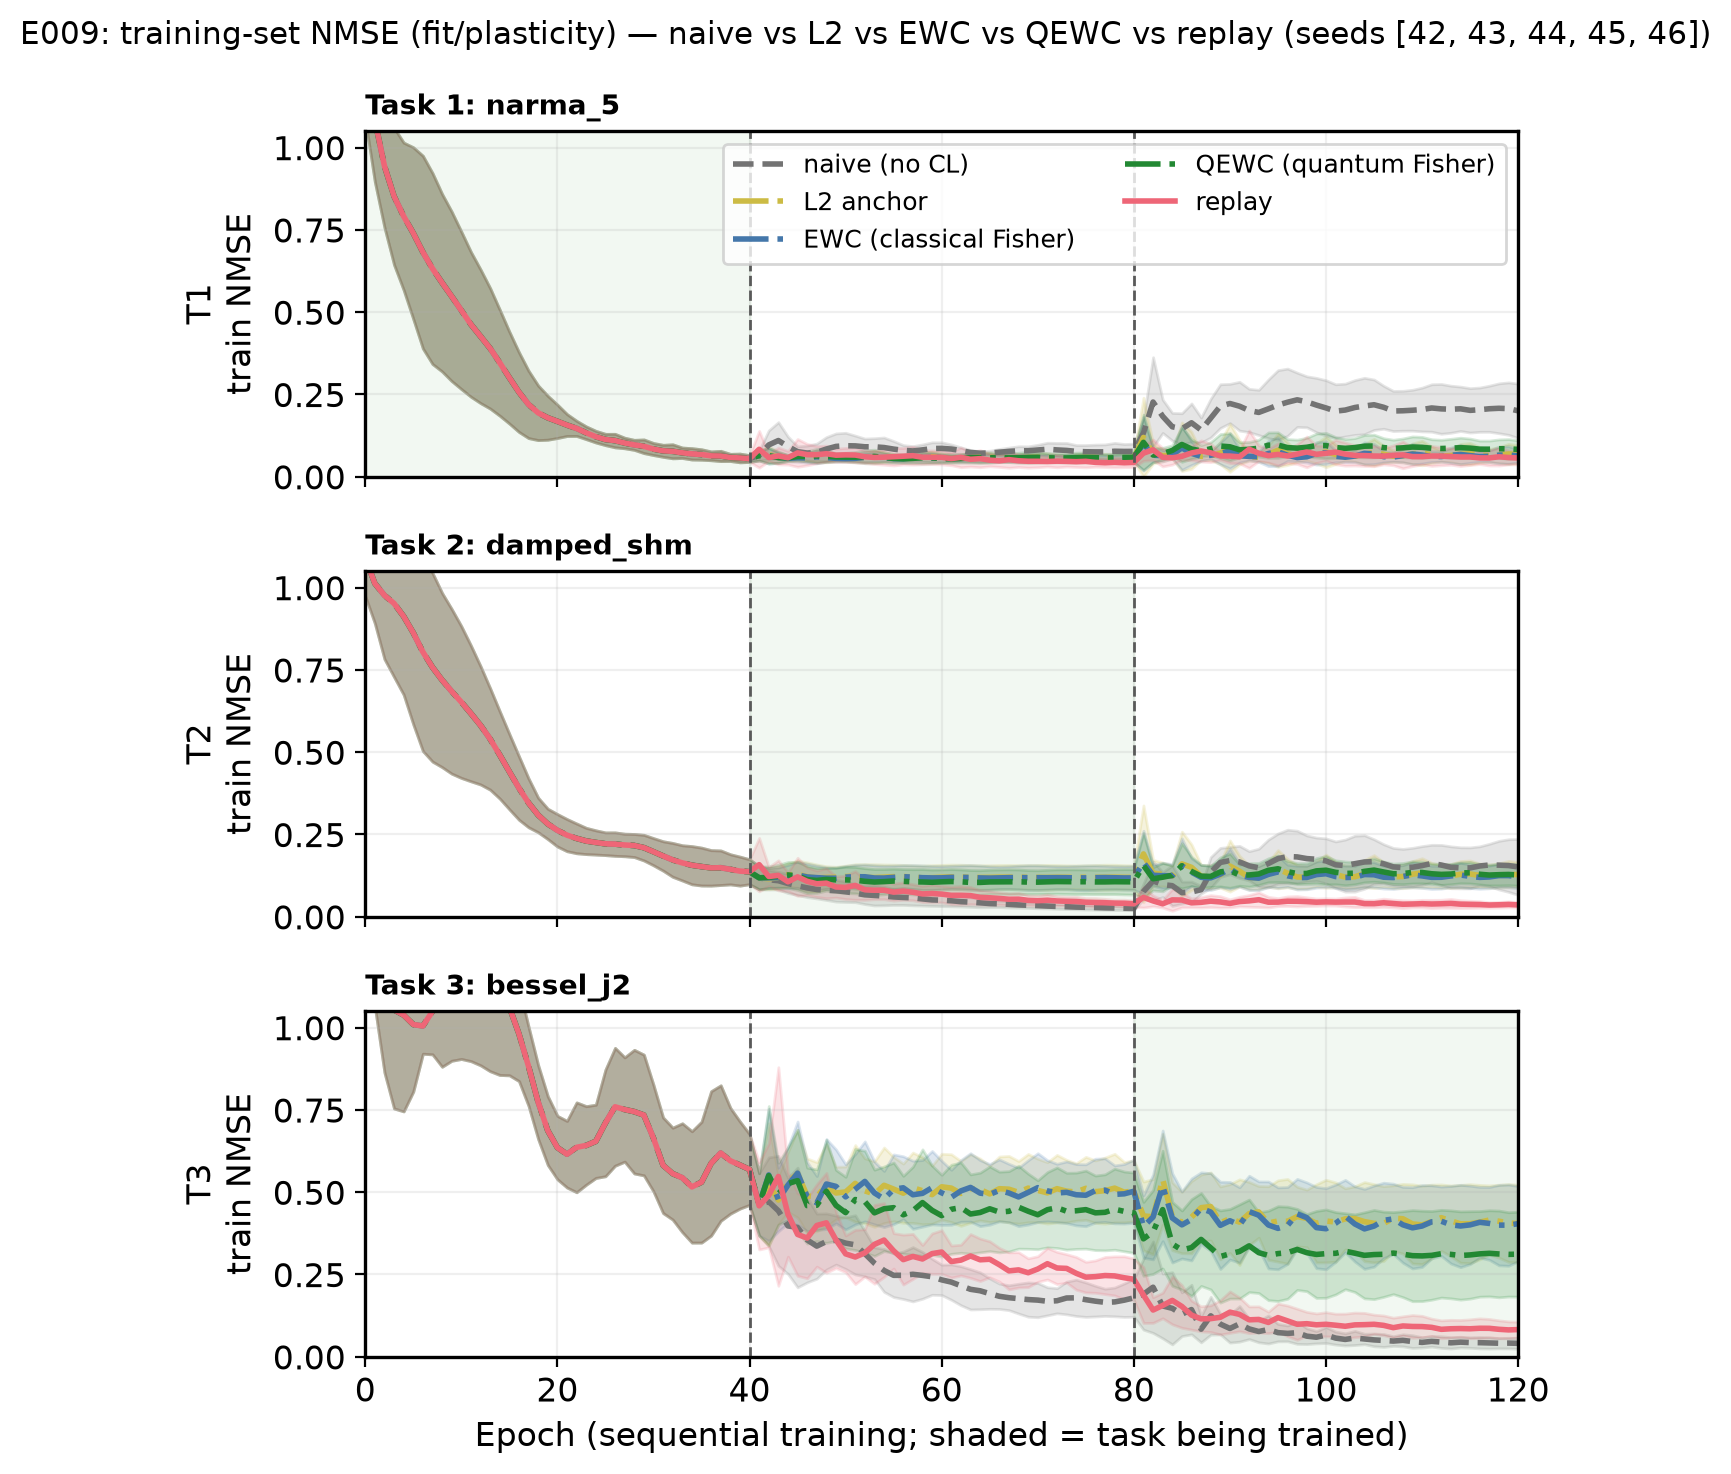
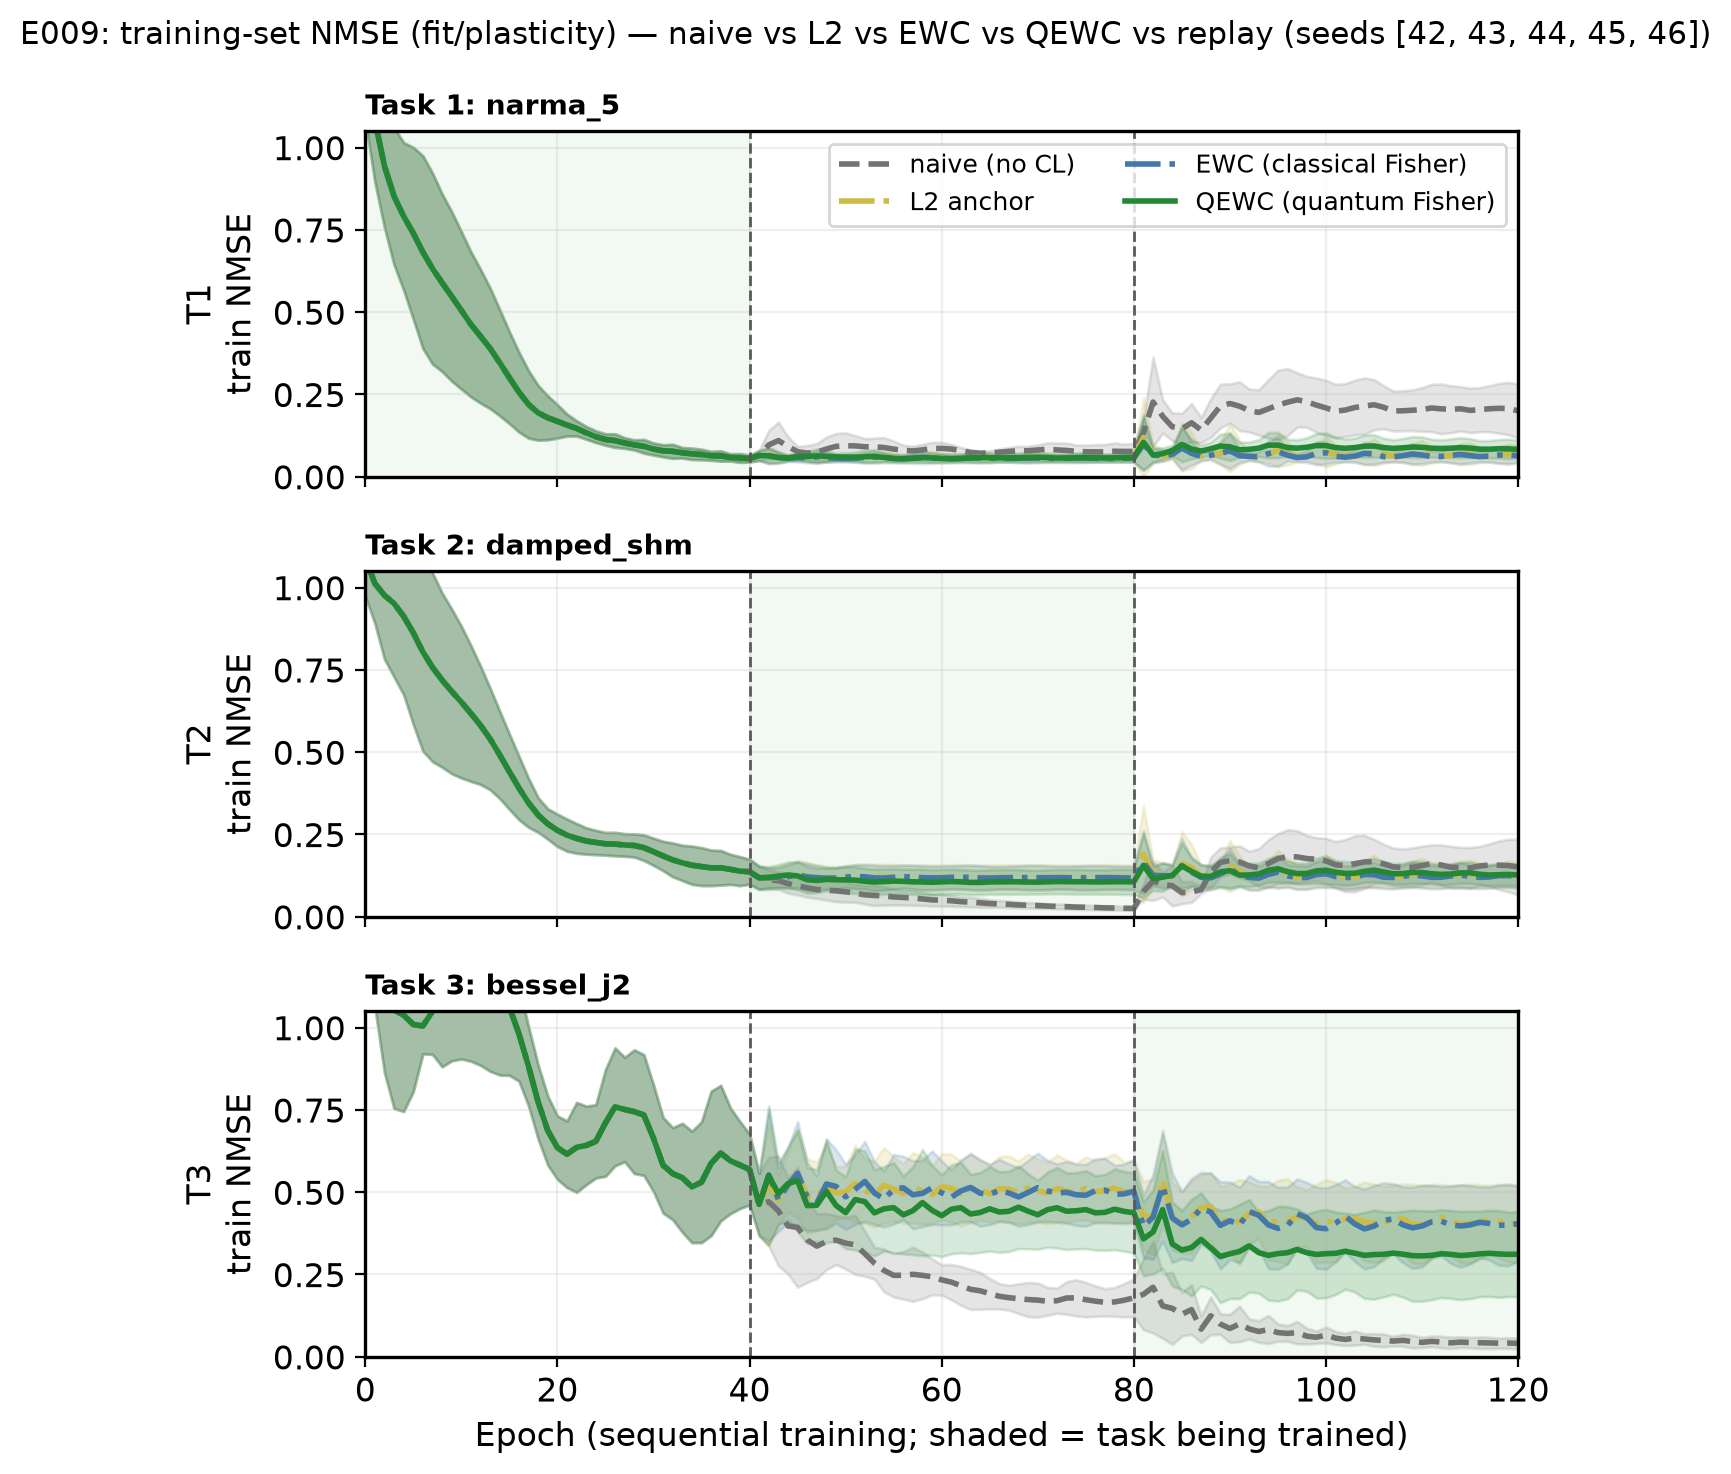
experiment(e009): focus figures on quantum methods (drop replay line); add circuit schematic
It's a quantum hackathon: replay is a classical, model-agnostic CL method, so the comparison
figures now show only the quantum-model methods (naive/L2/EWC/QEWC, QEWC = quantum Fisher).
Replay results stay in the data/tables. Adds figures/e009_circuit.png (recurrent data-reuploading
schematic).

diff --git a/scripts/e009_plot_circuit.py b/scripts/e009_plot_circuit.py
@@ -1,0 +1,65 @@
+"""Render a schematic of the e009 recurrent data-reuploading quantum forecaster.
+
+Shows a few time steps of the unrolled circuit so the recurrent structure is visible: at each
+step the scalar input x_t is angle-encoded (RY/RZ), then the SAME trainable block (RY/RZ + CNOT
+ring) is applied, with the quantum state persisting across steps. The real model uses seq_len=8
+steps and 2 layers; here we draw 3 steps / 1 layer for readability.
+
+Run:
+    python scripts/e009_plot_circuit.py
+"""
+
+from __future__ import annotations
+
+import sys
+from pathlib import Path
+
+import matplotlib.pyplot as plt
+import numpy as np
+import pennylane as qml
+from pennylane import numpy as pnp
+
+ROOT = Path(__file__).resolve().parents[1]
+sys.path.insert(0, str(ROOT))
+
+OUT = ROOT / "figures" / "e009_circuit.png"
+N_QUBITS, SHOW_STEPS, SHOW_LAYERS = 4, 3, 1
+
+
+def main() -> None:
+    dev = qml.device("default.qubit", wires=N_QUBITS)
+
+    @qml.qnode(dev)
+    def qnode(window, circ_w):
+        for step in range(SHOW_STEPS):
+            v = window[step]
+            for q in range(N_QUBITS):
+                qml.RY(((q + 1) / N_QUBITS) * v, wires=q)
+                qml.RZ(((N_QUBITS - q) / N_QUBITS) * v, wires=q)
+            for layer in range(SHOW_LAYERS):
+                for q in range(N_QUBITS):
+                    qml.RY(circ_w[layer, q, 0], wires=q)
+                    qml.RZ(circ_w[layer, q, 1], wires=q)
+                for q in range(N_QUBITS):
+                    qml.CNOT(wires=[q, (q + 1) % N_QUBITS])
+        return [qml.expval(qml.PauliZ(q)) for q in range(N_QUBITS)]
+
+    window = pnp.array(np.zeros(SHOW_STEPS), requires_grad=False)
+    circ_w = pnp.array(np.zeros((SHOW_LAYERS, N_QUBITS, 2)), requires_grad=True)
+
+    fig, ax = qml.draw_mpl(qnode, decimals=None, style="pennylane")(window, circ_w)
+    fig.suptitle("E009 quantum temporal forecaster — recurrent data re-uploading\n"
+                 "(3 of 8 time steps shown; encode $x_t$ → shared block $\\theta$ → CNOT ring, "
+                 "state persists; then $\\langle Z\\rangle$ → tanh head)", fontsize=11)
+
+    # annotate the repeating time-step structure
+    ax.text(0.5, 1.02, "↓ each block = one time step (same θ, re-uploads next $x_t$) ↓",
+            transform=ax.transAxes, ha="center", fontsize=9, color="dimgray")
+
+    OUT.parent.mkdir(exist_ok=True)
+    fig.savefig(OUT, dpi=200, bbox_inches="tight")
+    print(f"Wrote {OUT}")
+
+
+if __name__ == "__main__":
+    main()

diff --git a/scripts/e009_plot_compare.py b/scripts/e009_plot_compare.py
@@ -20,9 +20,9 @@ ROOT = Path(__file__).resolve().parents[1]
 RESULT = ROOT / "results" / "e009_multiseed.json"
 OUT = ROOT / "figures" / "e009_compare.png"
 
+# Replay (classical, model-agnostic) omitted to focus on the quantum-model regularizers.
 STYLE = {"naive": ("naive (no CL)", "0.55"), "l2": ("L2 anchor", "#CCBB44"),
-         "ewc": ("EWC (classical Fisher)", "#4477AA"), "qewc": ("QEWC (quantum Fisher)", "#228833"),
-         "replay": ("replay", "#EE6677")}
+         "ewc": ("EWC (classical Fisher)", "#4477AA"), "qewc": ("QEWC (quantum Fisher)", "#228833")}
 
 
 def main() -> None:
@@ -34,7 +34,8 @@ def main() -> None:
     final = {m: data["mean_curves"][m][-1]["nmse"] for m in methods}
 
     x = np.arange(len(tasks))
-    w = 0.16
+    w = 0.19
+    offset0 = (len(methods) - 1) / 2.0
     plt.rcParams.update({"font.size": 12, "axes.linewidth": 1.2})
     fig, ax = plt.subplots(figsize=(9.5, 5.2))
 
@@ -42,7 +43,7 @@ def main() -> None:
         means = [final[m][t]["mean"] for t in tasks]
         sds = [final[m][t]["sd"] for t in tasks]
         label, color = STYLE[m]
-        ax.bar(x + (j - 2) * w, means, w, yerr=sds, capsize=3, color=color,
+        ax.bar(x + (j - offset0) * w, means, w, yerr=sds, capsize=3, color=color,
                edgecolor="k", linewidth=0.5, label=label,
                error_kw={"elinewidth": 1, "alpha": 0.7})
 

diff --git a/scripts/e009_plot.py b/scripts/e009_plot.py
@@ -20,12 +20,12 @@ ROOT = Path(__file__).resolve().parents[1]
 RESULT = ROOT / "results" / "e009_multiseed.json"
 OUT = ROOT / "figures" / "e009_forgetting.png"
 
-# method -> (label, color, linestyle) — naive gray dashed, replay red solid
+# method -> (label, color, linestyle). Replay is a classical, model-agnostic method and is
+# omitted here to focus on the quantum-model regularizers (QEWC = quantum Fisher).
 STYLE = {"naive": ("naive (no CL)", "0.45", "--"),
          "l2": ("L2 anchor", "#CCBB44", "-."),
          "ewc": ("EWC (classical Fisher)", "#4477AA", "-."),
-         "qewc": ("QEWC (quantum Fisher)", "#228833", "-."),
-         "replay": ("replay", "#EE6677", "-")}
+         "qewc": ("QEWC (quantum Fisher)", "#228833", "-")}
 
 
 def main() -> None:

diff --git a/scripts/e009_plot_train.py b/scripts/e009_plot_train.py
@@ -20,11 +20,11 @@ ROOT = Path(__file__).resolve().parents[1]
 RESULT = ROOT / "results" / "e009_multiseed.json"
 OUT = ROOT / "figures" / "e009_training.png"
 
+# Replay (classical, model-agnostic) omitted to focus on the quantum-model regularizers.
 STYLE = {"naive": ("naive (no CL)", "0.45", "--"),
          "l2": ("L2 anchor", "#CCBB44", "-."),
          "ewc": ("EWC (classical Fisher)", "#4477AA", "-."),
-         "qewc": ("QEWC (quantum Fisher)", "#228833", "-."),
-         "replay": ("replay", "#EE6677", "-")}
+         "qewc": ("QEWC (quantum Fisher)", "#228833", "-")}
 
 
 def main() -> None:
